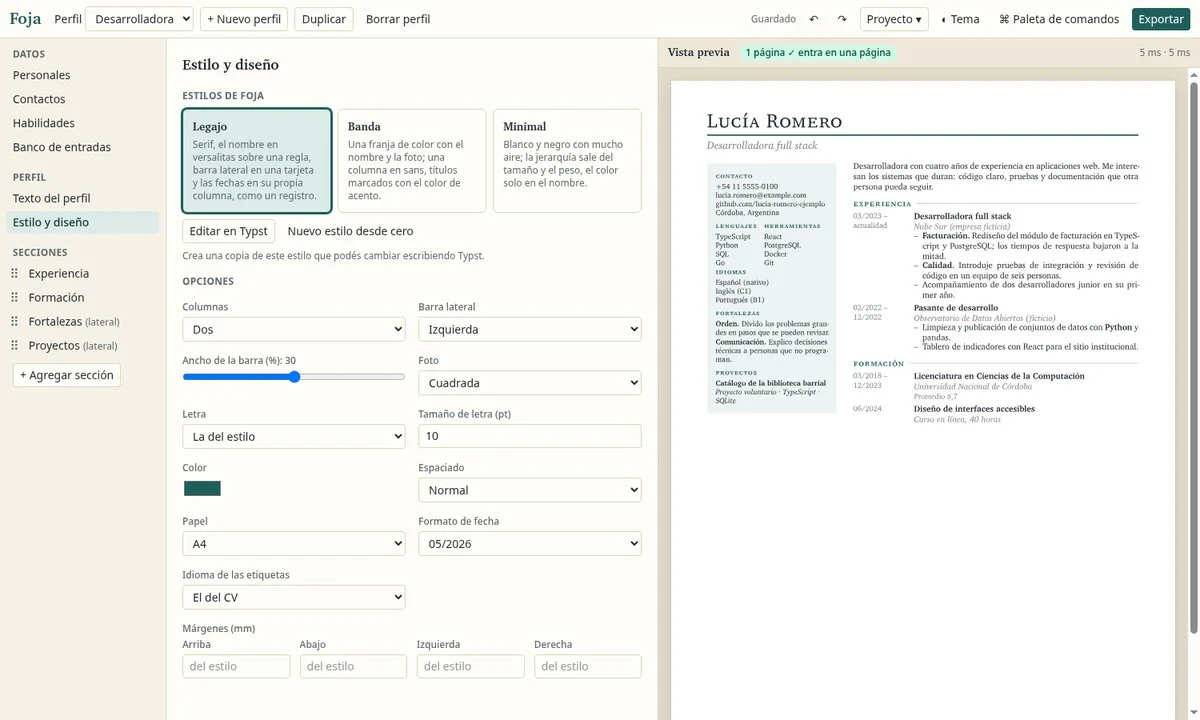
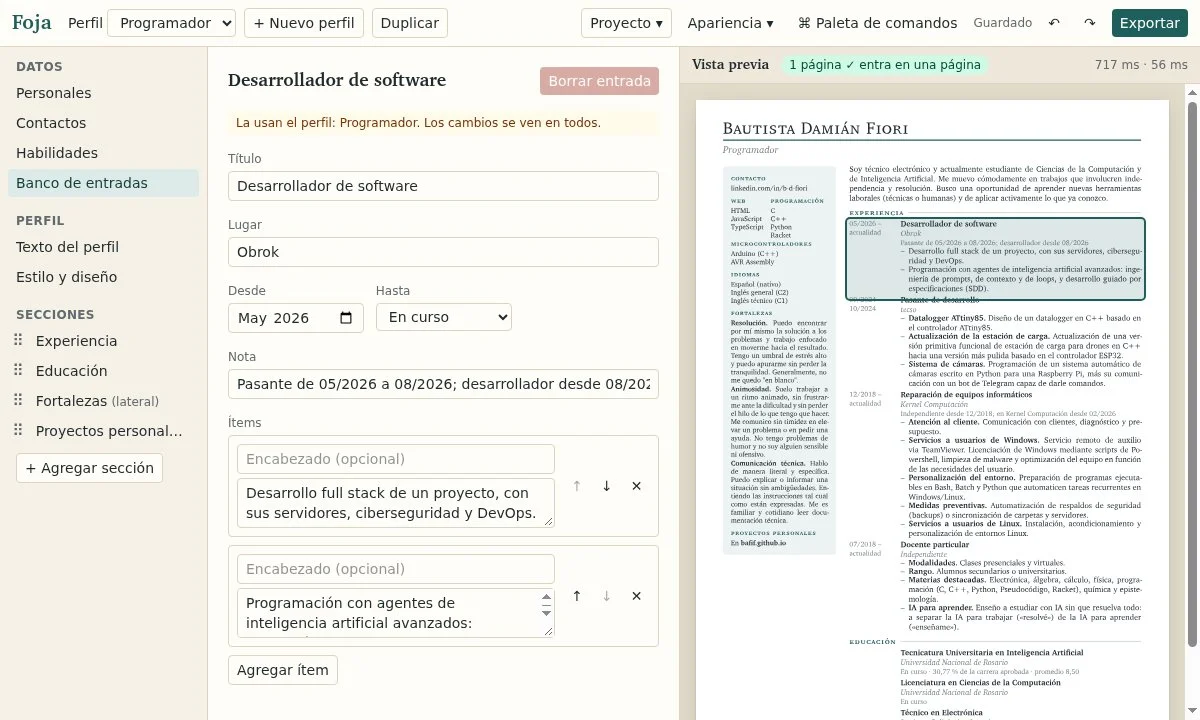
Show my own CV in Foja's screenshot and the link preview

diff --git a/src/data/projects.ts b/src/data/projects.ts
@@ -219,7 +219,7 @@ export const showcases: Showcase[] = [
     images: [
       img(
         "foja-editor.webp",
-        "El editor de Foja: a la izquierda el panel Estilo y diseño con los estilos Legajo, Banda y Minimal, a la derecha la vista previa de un CV de ejemplo",
+        "El editor de Foja: a la izquierda el formulario de una entrada de experiencia, a la derecha la vista previa de mi CV, con esa entrada resaltada",
         1200,
         720,
       ),
